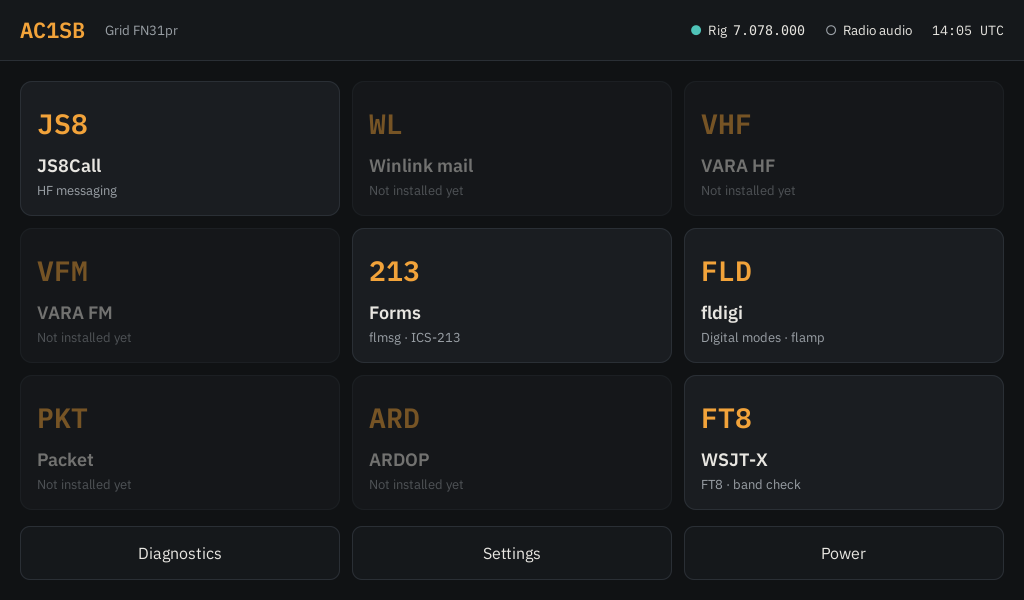
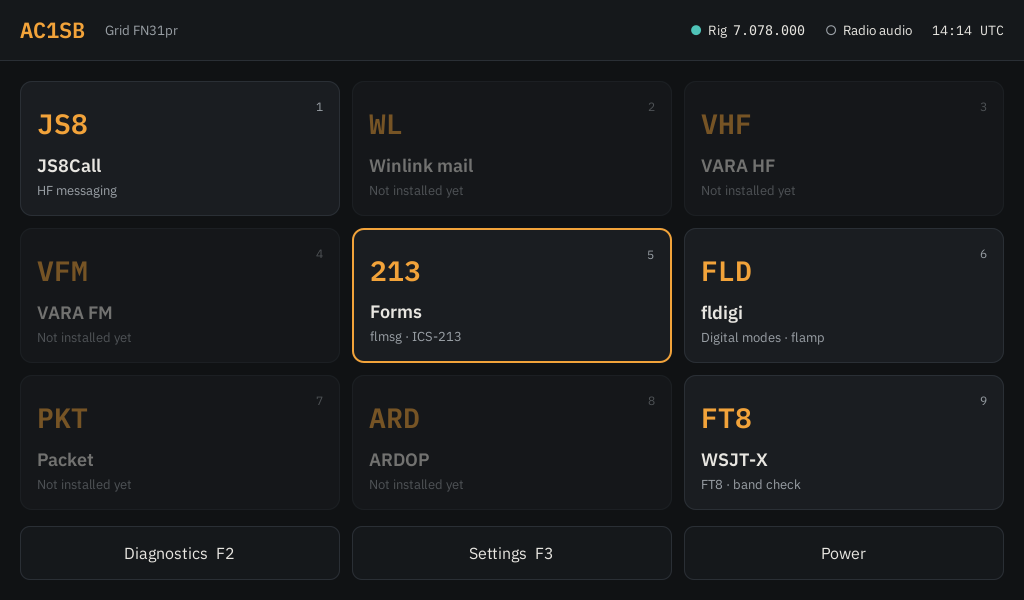
Launcher: keyboard shortcuts and visible focus outline
Esc/F1 Home, F2 Diagnostics, F3 Settings, 1-9 open home tiles; focused
buttons get an amber border so Tab navigation is visible.

Claude-Session: https://claude.ai/code/session_016N9FLiakM7osqgmyw9jwVg

diff --git a/README.md b/README.md
@@ -21,6 +21,8 @@ environment.
   `127.0.0.1:4532`.
 - **Kiosk:** auto-login on the console, X with Openbox only, screen blanking off.
 - **Launcher:** the home screen above. Tiles stay greyed out until the app is installed.
+  Works by touch, mouse or keyboard: Tab moves between buttons, 1–9 open tiles,
+  Esc/F1 goes Home, F2 opens Diagnostics, F3 opens Settings.
 - **Diagnostics:** USB devices with vendor:product IDs, radio ports, sound cards,
   services, recent USB events, a read-frequency check and a 2-second PTT test.
   The same report is available over SSH with `emcomm-diag`.
